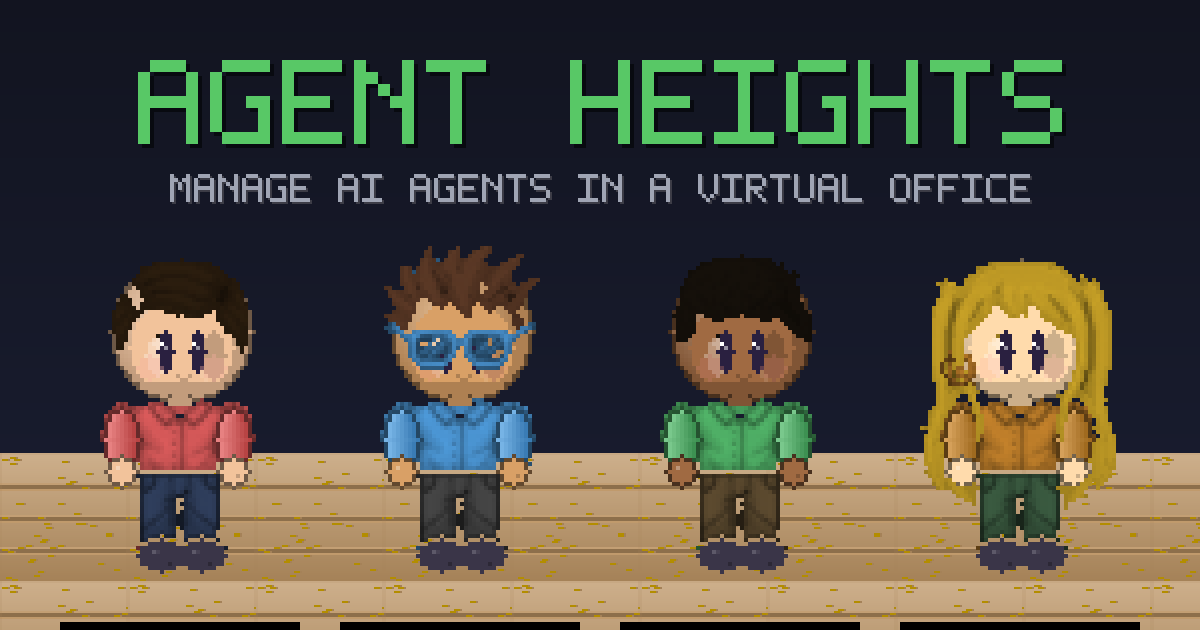
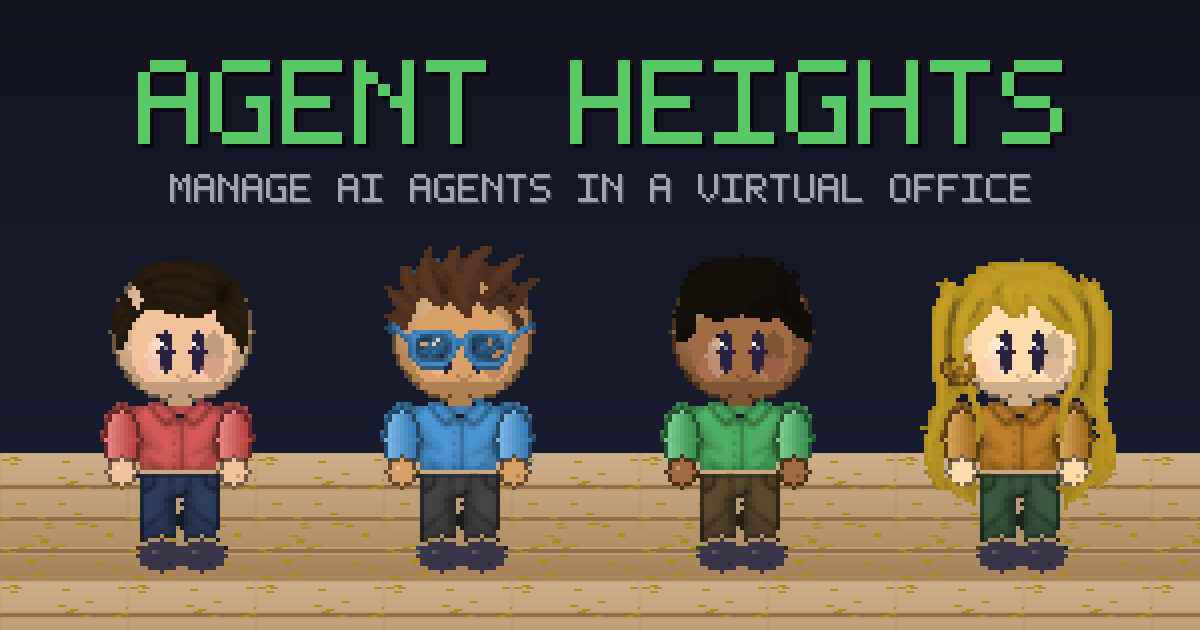
fix: remove shadow rectangles under characters in OG image

Changed region(s): [[0.0308, 0.9651, 0.9558, 1.0]]

diff --git a/scripts/generate-og-image.ts b/scripts/generate-og-image.ts
@@ -196,8 +196,6 @@ for (let i = 0; i < charFiles.length; i++) {
     }
   }
   const px = charStartX + i * (FRAME_W * charScale + charGap);
-  // Shadow under each character
-  fillRect(img, px + 8, charY + FRAME_H * charScale - 8, FRAME_W * charScale - 16, 12, 0, 0, 0);
   blend(img, frame, px, charY, charScale);
 }
 
